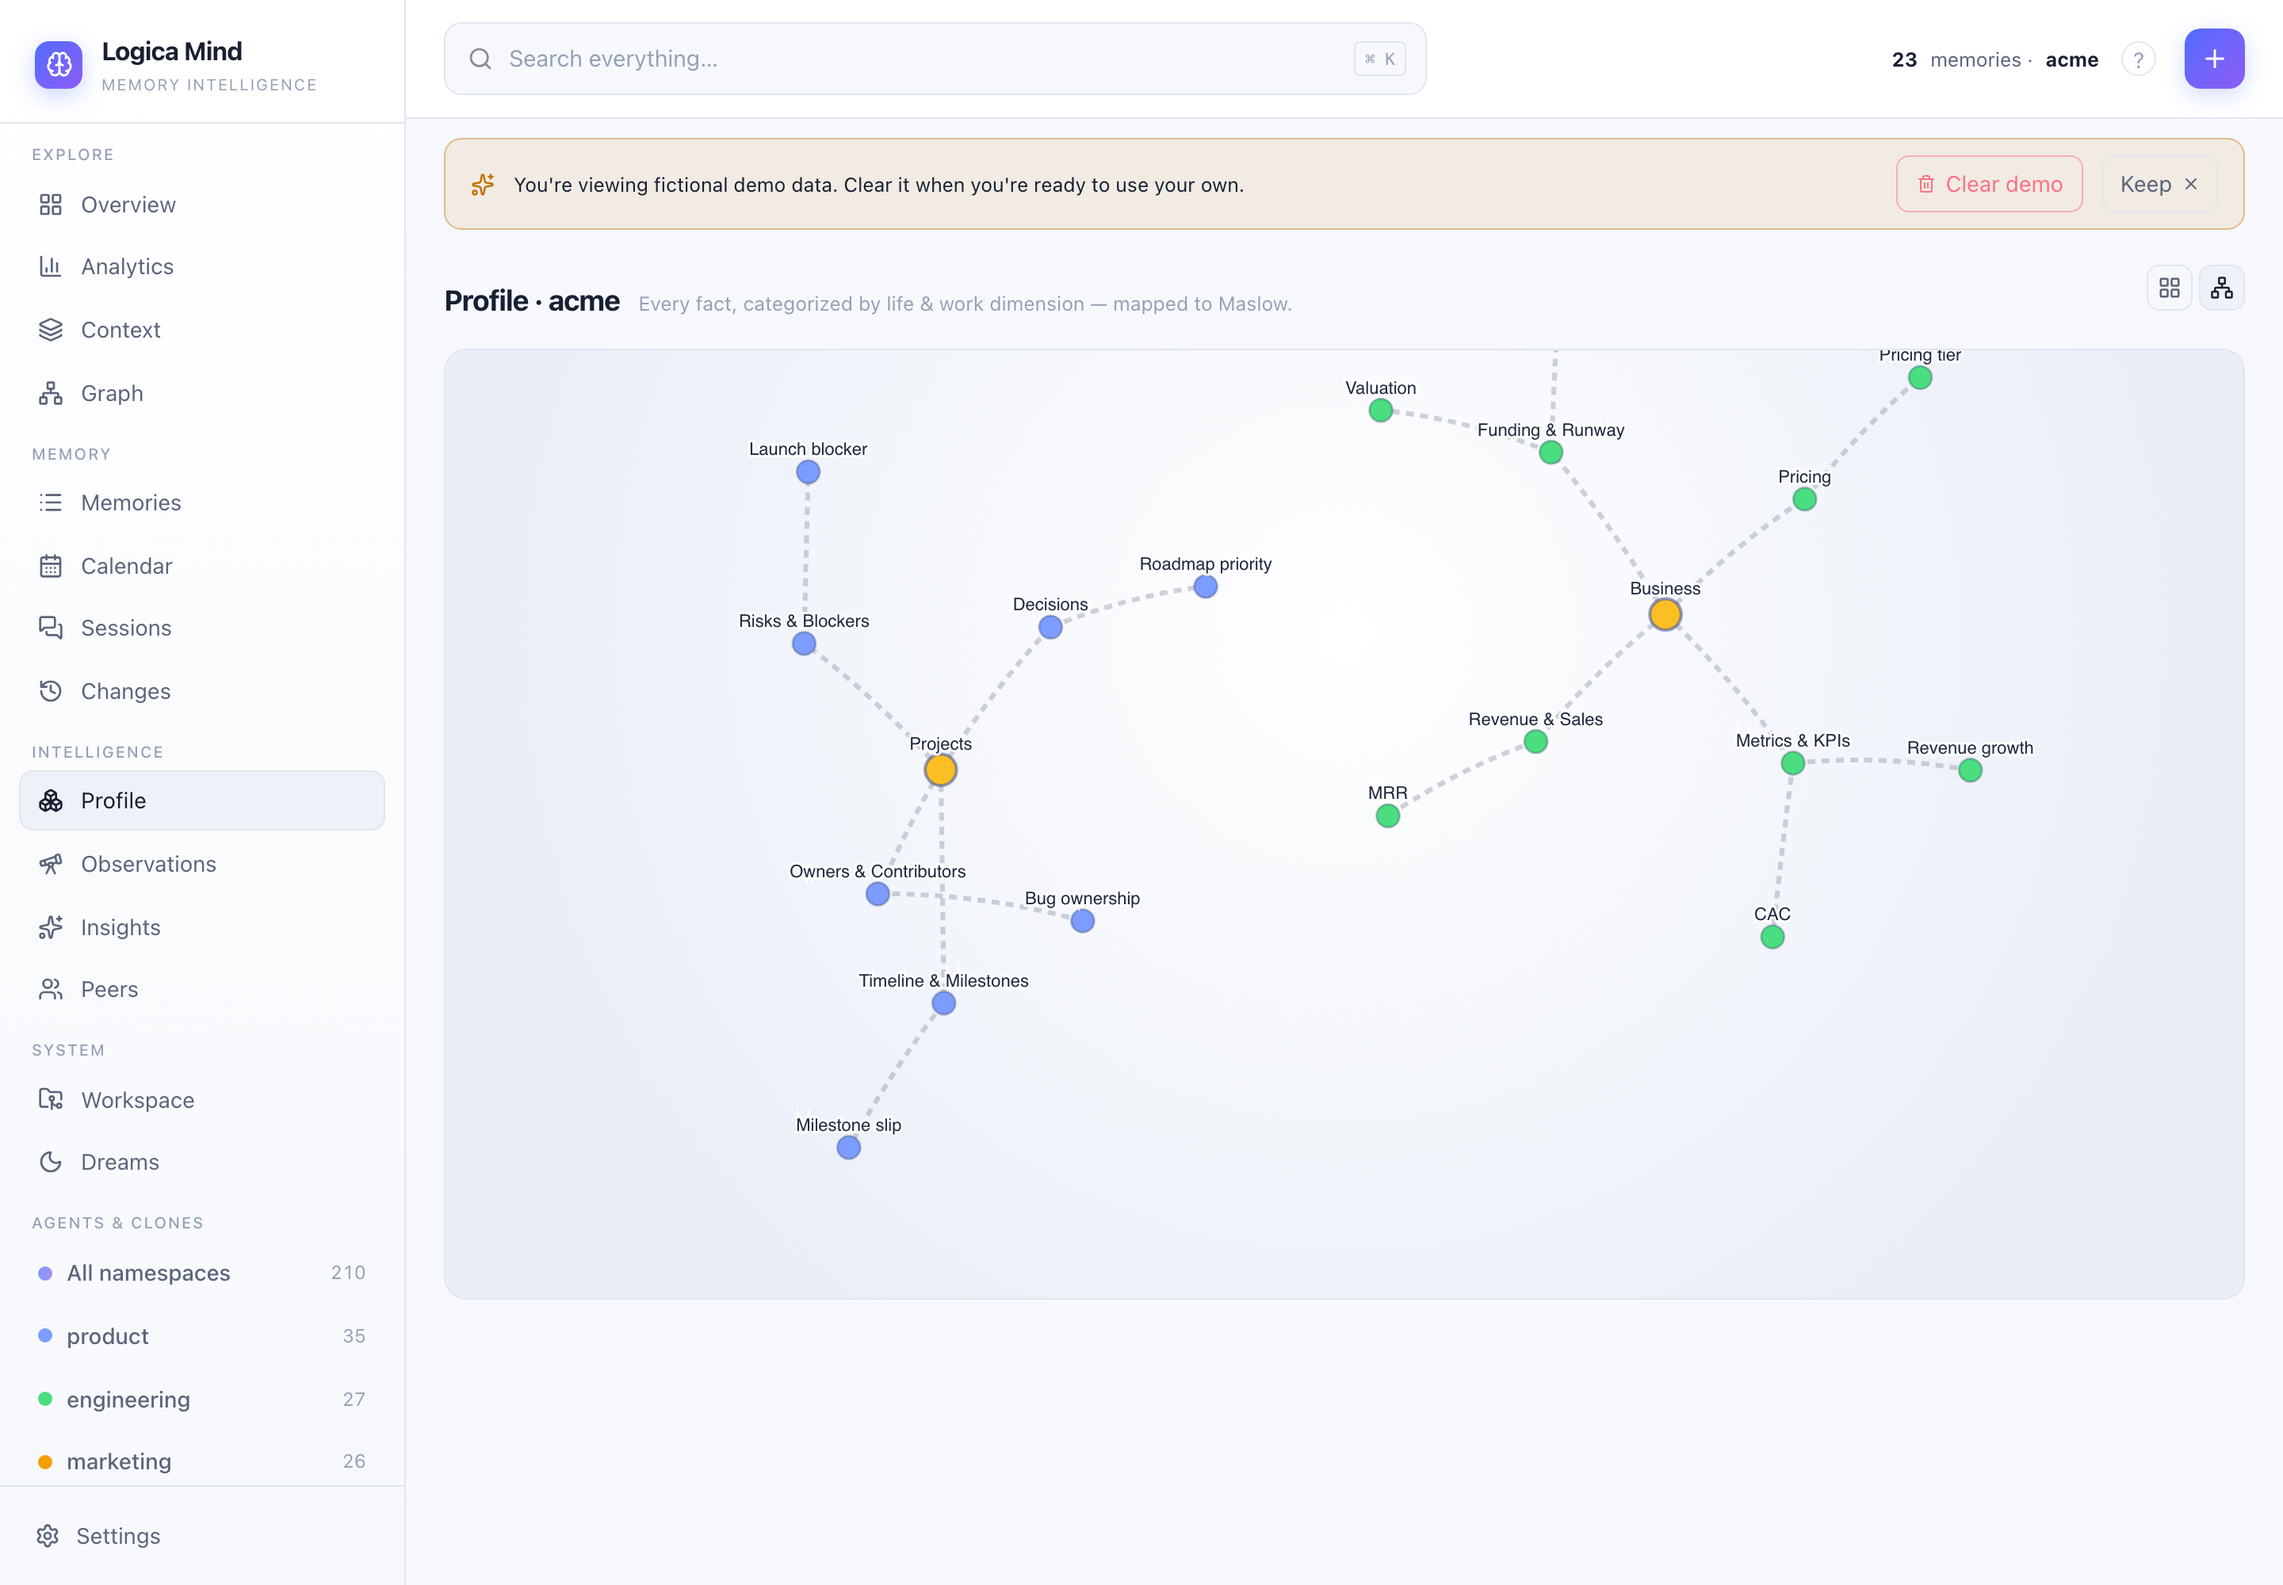
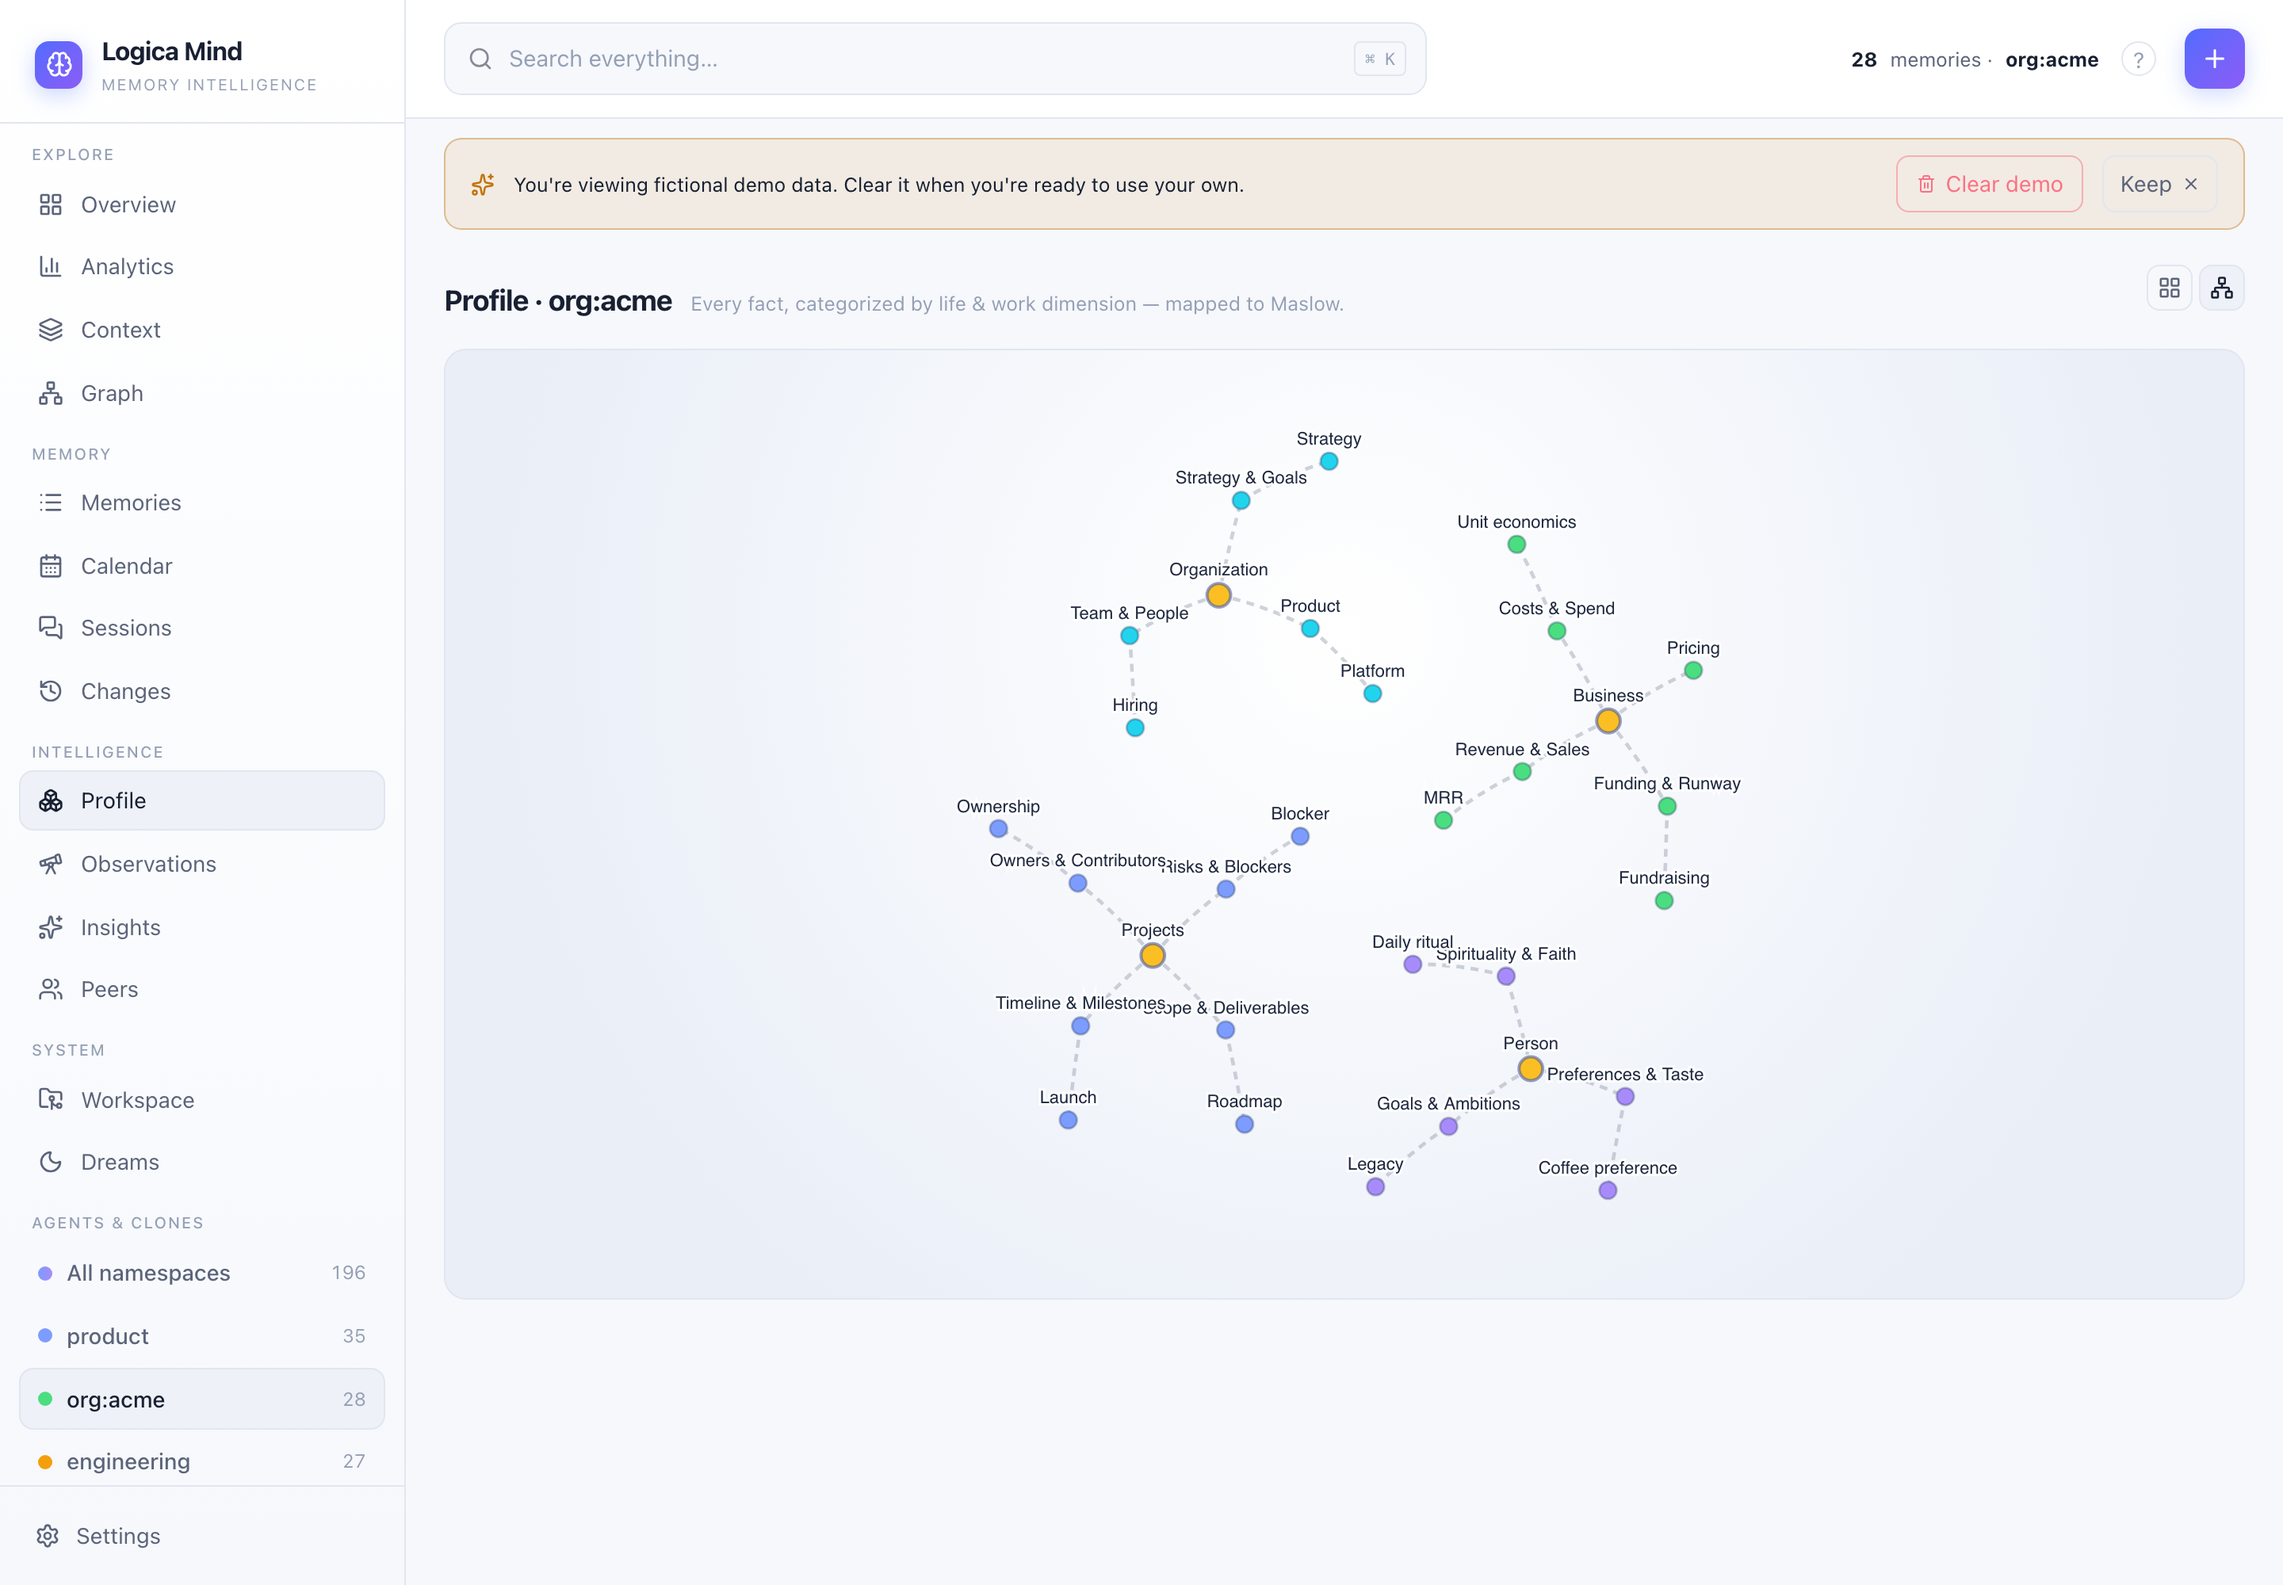
feat(graph): pick an entity's life-area by dominant group; light-theme shots
- _entity_dimensions now resolves the dominant life-AREA first (summing a
  group's dimensions) before the busiest dimension, so an entity that's
  mostly business reads as business even when its facts span dimensions.
- New light-theme screenshots: colour-by-life-area graph, the Connected
  panel, and the Profile knowledge-map — embedded in README + docs.

diff --git a/logica_mind/core.py b/logica_mind/core.py
@@ -899,6 +899,7 @@ class LogicaMind:
                     ents.add(e.subject)
                 if e.object:
                     ents.add(e.object)
+        from .extract.taxonomy import group_of
         out: Dict[str, str] = {}
         for ent in ents:
             name = ent.strip()
@@ -909,8 +910,18 @@ class LogicaMind:
             for content, dim in facts:
                 if pat.search(content):
                     votes[dim] += 1
-            if votes:
-                out[ent] = votes.most_common(1)[0][0]
+            if not votes:
+                continue
+            # pick the dominant life-AREA first (a group can hold several dimensions),
+            # then the busiest dimension inside it — so an entity that's mostly about
+            # business reads as business even when its business facts span dimensions.
+            group_votes: Counter = Counter()
+            for dim, n in votes.items():
+                group_votes[group_of(dim) or "personal"] += n
+            top_group = group_votes.most_common(1)[0][0]
+            best = max((d for d in votes if (group_of(d) or "personal") == top_group),
+                       key=lambda d: votes[d])
+            out[ent] = best
         return out
 
     # ---- observations ------------------------------------------------------

diff --git a/README.md b/README.md
@@ -172,6 +172,12 @@ bundle = mind.export_bundle(secret=k)  # HMAC-signed, portable memory you can mo
 - **Danger-zone controls** — scoped erasure from the dashboard: clear by layer, clear stale (old & untouched), or reset a namespace — all behind a typed confirmation.
 - **A demo you control** — ship empty, load a rich fictional dataset to explore, then clear it with one click (it only removes the demo, never your data).
 
+<div align="center">
+  <img src="docs/img/dashboard-connected.png" alt="The Connected panel — auto-derived backlinks for a memory: mentions, typed relations, and other notes that link here" width="100%">
+  <br>
+  <em>Open any memory and the <b>Connected</b> panel derives its neighborhood — the entities it mentions, the typed relations among them, and the other notes that link here — with no hand-typed links. Click any of them to walk note-to-note.</em>
+</div>
+
 ### 🧰 More than memory — a coding-context server too
 
 The *same package* is also a Logica-Context-class devtools server: a sandboxed

diff --git a/docs/knowledge-graph.md b/docs/knowledge-graph.md
@@ -337,6 +337,8 @@ Programmatically, `mind.graph_viz(namespace=..., at=...)` returns the `{nodes, l
 
 Each node in the `graph_viz` payload also carries a `dimension` field when one can be inferred — the **dominant life/work dimension** of the entity, bridged from the [categorized facts](./categorization.md) that mention it. In the dashboard, toggle **life areas** to paint every entity by its group (Person / Projects / Organization / Business) and use the area chips to filter the graph down to a single area. Entities with no categorized facts stay neutral.
 
+![Knowledge graph coloured by life-area](img/dashboard-graph-areas.png)
+
 ### Walking connections
 
 Any entity (and any memory) exposes its neighborhood through [`mind.connections(id)`](./connections.md) — the relations touching it, the other memories that mention it, and siblings of the same category. It's the derived-backlink layer the dashboard's **Connected** panel renders.

diff --git a/docs/categorization.md b/docs/categorization.md
@@ -201,6 +201,8 @@ It has two modes:
 - **Cards** — the dimension tree above, tabbed by Person / Projects / Organization / Business (the Person tab also holds the dialectic user model + an ask box).
 - **Knowledge map** — the same data as a clickable graph (group → dimension → category). Click a node to jump straight to its filtered memories.
 
+![Profile knowledge map — groups → dimensions → categories](img/dashboard-profile-map.png)
+
 ### Categorization in the knowledge graph
 
 The four groups carry a colour language — **Person** (purple), **Projects** (blue), **Organization** (cyan), **Business** (green) — and it extends to the entity graph. Toggle **life areas** on the Graph view to paint every entity by its dominant dimension (bridged from the categorized facts that mention it), then use the area chips to filter the graph down to one area. See [Knowledge graph](./knowledge-graph.md).

diff --git a/docs/connections.md b/docs/connections.md
@@ -27,6 +27,8 @@ Nothing here is hand-authored. Add a fact that happens to mention an entity anot
 
 ## In the dashboard
 
+![The Connected panel — derived backlinks for a memory](img/dashboard-connected.png)
+
 Open any memory (click a card) and the note pane shows a **Connected** panel beneath the content:
 
 - **Mentions** — entity chips, coloured by life-area; click one to open it in the graph.
